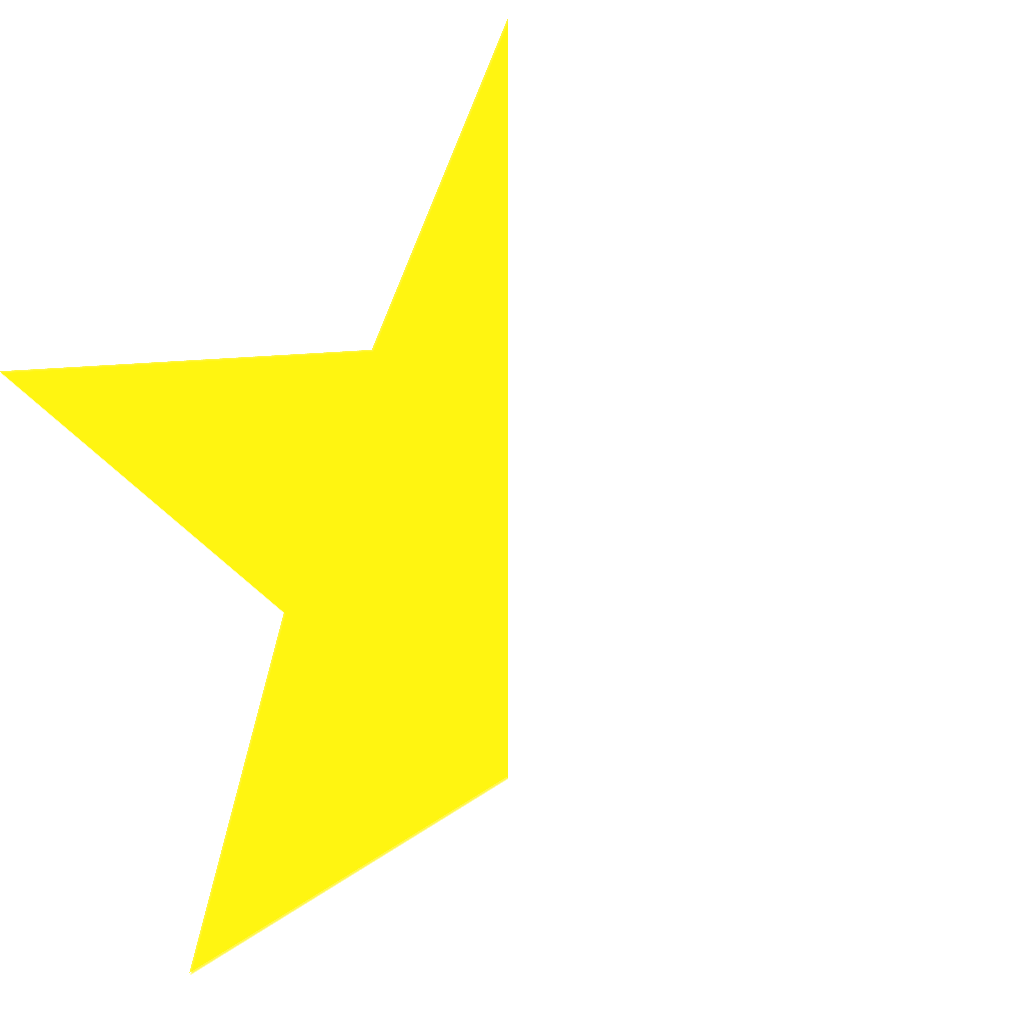
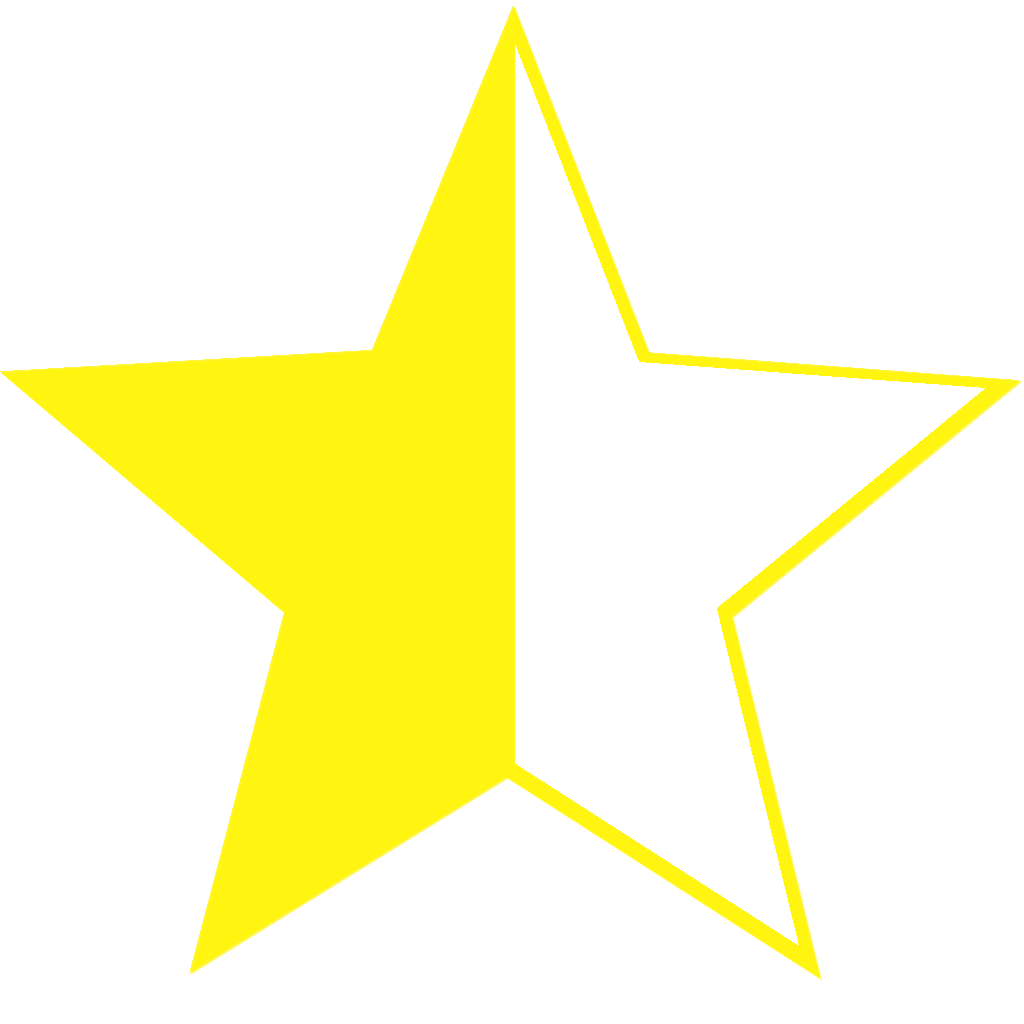
Commentaires reliés à la base de données

Changed region(s): [[0.4688, 0.0, 1.0, 0.875], [0.6875, 0.4375, 0.9062, 0.9688]]

diff --git a/public/javascript/app.js b/public/javascript/app.js
@@ -74,25 +74,37 @@ $("#searchForm").submit(function (evt) {
 
 
  /**
- * @author
+ * @author Mathias
  */
+$(document).ready(function(){
        $.ajax({
          url: '/comments',
          method: 'GET'
        }).done(function(res){
-         for(var i = 0; i<3;i++){
-           var modulo=comment.score%1;
-           for(var j = 0; j<comment.score-modulo;j++){
-             $('#etoile').append('<img src="../../public/images/Etoile_pleine.png" alt="" />')
-           }
+         var x=0;
            res.forEach(function(comment) {
-             $('#title').text(comment.title),
-             $('#comm').text(comment.content)
-           })
-         }
-
+             $('#title'+x).text(comment.title);
+             var modu = comment.score%1;
+             var nbreEtoile = comment.score - modu;
+             $('#commen'+x).text(comment.content);
+             for(var y = 1; y<=nbreEtoile; y++){
+               $('#etoile'+x+'-'+y).attr('src', "../images/EtoilePleine.png");
+             }
+             if(modu==0.5){
+                $('#etoile'+x+'-'+y).attr('src', "../images/Etoile moitié.png");
+                for(var y = nbreEtoile+2; y<=6; y++){
+                  $('#etoile'+x+'-'+y).attr('src', "../images/Etoile vide.png");
+                }
+             }
+             else{
+               for(var y = nbreEtoile+1; y<=6; y++){
+                 $('#etoile'+x+'-'+y).attr('src', "../images/Etoile vide.png");
+               }
+             }
+             x++;
+           });
        });
-
+      });
  /**
  * @author éric et isa
  */
@@ -137,7 +149,7 @@ $('#btnLogin').on('click', function(){
         headers : {"content-type" : "application/json"},
         data: JSON.stringify(data)
       }).done(function(res, user){
-        
+
         $('#loginSection').hide();
         $('#userLog').show();
         $('.jumbotron-heading').append(res.user.firstname);

diff --git a/public/stylesheets/home.css b/public/stylesheets/home.css
@@ -121,6 +121,9 @@ background-color: rgba(0,0,0,0.8);
   flex-flow: row nowrap;
   padding: 10px;
 }
+.text{
+  margin-left: 10px;
+}
 .signal{
  display: flex;
  justify-content: flex-end;
